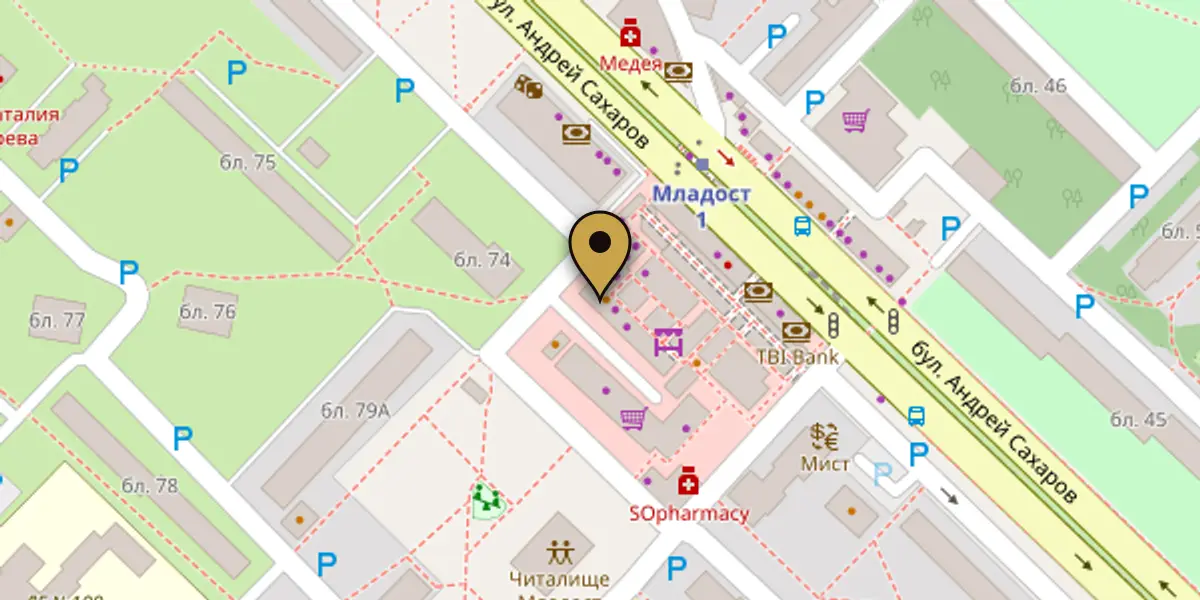
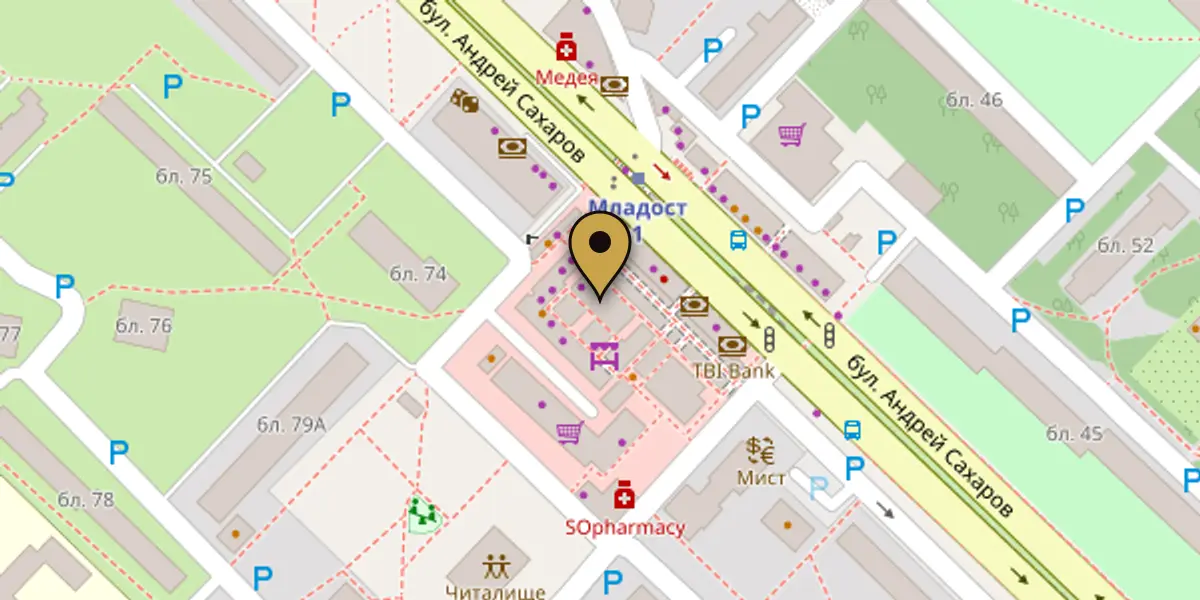
feat(seo): local title and H1, Google Business Profile links and schema
- Home title „Бързи кредити в София, Младост | Royal Finance“, H1 „Бързи кредити
  и бързо финансиране в София“ (client, 2026-10-28)
- company.gbpUrl: every address/maps link opens the Google Business Profile;
  JSON-LD sameAs/hasMap point to it, plus priceRange from the form's amount range
- Office pin = the profile's pin; static map regenerated
- FAQ description no longer mentions the lender

diff --git a/src/lib/seo.ts b/src/lib/seo.ts
@@ -1,6 +1,7 @@
 // JSON-LD (schema.org) built from src/data/company.ts — never hardcode company data here.
 // Missing data (photos, geo, profiles) is simply left out until the client supplies it.
 import { company } from '../data/company';
+import { AMOUNT, formatEur } from './application';
 
 export const SITE = 'https://www.royalfinance.bg'; // primary domain (apex redirects here)
 
@@ -23,6 +24,8 @@ export function financialService() {
     image: `${SITE}/og.png`,
     telephone: company.phoneHref.replace('tel:', ''),
     email: company.email,
+    // The amount range of the form (not a cost figure)
+    priceRange: `${formatEur(AMOUNT.min)} – ${formatEur(AMOUNT.max)}`,
     address: {
       '@type': 'PostalAddress',
       streetAddress: company.office.streetAddress,
@@ -32,8 +35,9 @@ export function financialService() {
     },
     ...(company.office.geo && {
       geo: { '@type': 'GeoCoordinates', latitude: company.office.geo.lat, longitude: company.office.geo.lon },
-      hasMap: `https://www.google.com/maps/search/?api=1&query=${company.office.geo.lat},${company.office.geo.lon}`,
     }),
+    hasMap: company.gbpUrl,
+    sameAs: [company.gbpUrl],
     openingHoursSpecification: company.openingHours.map((h) => ({
       '@type': 'OpeningHoursSpecification',
       dayOfWeek: h.days,

diff --git a/src/data/company.ts b/src/data/company.ts
@@ -26,9 +26,14 @@ export const company = {
      * After changing it run: node scripts/make-office-map.mjs <lat> <lon>
      * null = not known yet → no map and no geo (nothing is shown instead of a wrong pin).
      */
-    // OpenStreetMap: commercial building бул. Андрей Сахаров 11 (2026-10-23) — client to confirm the pin
-    geo: { lat: 42.6524536, lon: 23.3728051 } as { lat: number; lon: number } | null,
+    // The pin of the Google Business Profile (2026-10-28), so the site, JSON-LD and the profile match
+    geo: { lat: 42.6525113, lon: 23.3731487 } as { lat: number; lon: number } | null,
   },
+  /**
+   * Google Business Profile (stable cid link of „Royal Finance Младост“, from the client's share link
+   * 2026-10-28). Every "open in maps" link points here, and it is `sameAs` in the JSON-LD.
+   */
+  gbpUrl: 'https://maps.google.com/?cid=5018476934828207780',
   phone: '+359 888 807 152',
   phoneHref: 'tel:+359888807152',
   workingHours: 'Понеделник – петък: 10:00 – 19:00 ч.; събота: 10:00 – 16:00 ч.; неделя: почивен ден',

diff --git a/tests/e2e/test_seo.py b/tests/e2e/test_seo.py
@@ -50,7 +50,7 @@ for url, path in sorted(pages.items()):
         fs = next((d for d in data if d.get('@type') == 'FinancialService'), {})
         ok(f'{url}: NAP in JSON-LD', fs.get('name') == 'Royal Finance' and fs.get('telephone') == '+359888807152'
            and fs.get('address', {}).get('streetAddress') == 'бул. „Андрей Сахаров“ № 11'
-           and fs.get('address', {}).get('postalCode') == '1784' and fs.get('geo', {}).get('latitude') == 42.6524536, json.dumps(fs.get('address'), ensure_ascii=False))
+           and fs.get('address', {}).get('postalCode') == '1784' and fs.get('geo', {}).get('latitude') == 42.6525113 and fs.get('sameAs') == [fs.get('hasMap')] and fs['hasMap'].startswith('https://maps.google.com/?cid=') and fs.get('priceRange') == '500 € – 5 000 €', json.dumps(fs.get('address'), ensure_ascii=False))
         ok(f'{url}: no rating/review markup', 'aggregateRating' not in html and '"Review"' not in html)
         imgs = re.findall(r'<img\b[^>]*>', html)
         has_alt = lambda i: re.search(r'\salt(=|\s|>)', i)  # bare `alt` == alt="" (decorative)
@@ -69,7 +69,7 @@ faq_ld = [json.loads(b) for b in re.findall(r'<script type="application/ld\+json
 fp = next((d for d in faq_ld if d['@type'] == 'FAQPage'), None)
 ok('/faq: FAQPage with 8–12 questions', fp and 8 <= len(fp['mainEntity']) <= 12, fp and str(len(fp['mainEntity'])))
 home = (STATIC / 'index.html').read_text(encoding='utf-8')
-ok('home: H1 „Бързо финансиране“ and no „Бързи кредити в Младост“ in the title (client decision)', re.search(r'<h1[^>]*>Бързо финансиране</h1>', home) and 'Бързи кредити в Младост' not in re.search(r'<title>([^<]*)', home).group(1))
+ok('home: title and H1 (client decision 2026-10-28)', re.search(r'<h1[^>]*>Бързи кредити и бързо финансиране в София</h1>', home) and re.search(r'<title>([^<]*)', home).group(1) == 'Бързи кредити в София, Младост | Royal Finance')
 ok('home: intro text (client copy)', re.search(r'class="lead"[^>]*>\s*Бърз кредит, кандидатствайте онлайн', home))
 ok('home: office address + hours visible', 'бул. „Андрей Сахаров“ № 11' in home and '10:00' in home)
 

diff --git a/tests/e2e/test_legal.py b/tests/e2e/test_legal.py
@@ -77,8 +77,8 @@ with sync_playwright() as p:
         stmt = 'Royal Finance е търговска марка на „Глобъл Профинанс“ ЕООД, която действа като агент на „Тием Финанси“ ООД, ЕИК 202786529, вписано в регистъра на финансовите институции към БНБ под № BGR00464.'
         ok(f'[{label}] home: agent statement not under the form (client), but in the footer of the same page', stmt not in pg.text_content('#apply-form') and stmt in pg.text_content('footer'))
         ok(f'[{label}] contact block real data', '+359 888 807 152' in ct and 'finance@royalfinance.bg' in ct and 'abv.bg' not in ct and 'Понеделник – петък' in ct)
-        ok(f'[{label}] contact office address', 'бул. „Андрей Сахаров“ № 11' in ct and '1784 София' in ct and 'бл. 79' not in ct and 'Отвори в карти' in ct)
-        ok(f'[{label}] maps links (contact + footer)', pg.locator('a[data-maps-query]').count() == 2 and all('google.com/maps' in h for h in pg.eval_on_selector_all('a[data-maps-query]', 'as => as.map(a => a.href)')))
+        ok(f'[{label}] contact office address', 'бул. „Андрей Сахаров“ № 11' in ct and '1784 София' in ct and 'бл. 79' not in ct and 'Виж в Google Maps' in ct)
+        ok(f'[{label}] maps links (contact + footer) → Google Business Profile', pg.locator('a[data-maps-link]').count() == 2 and all(h.startswith('https://maps.google.com/?cid=') for h in pg.eval_on_selector_all('a[data-maps-link]', 'as => as.map(a => a.href)')))
         ok(f'[{label}] header has phone but no working hours', '+359 888 807 152' in pg.text_content('header') and '10:00' not in pg.text_content('header'))
         pg.goto(BASE + '/'); pg.wait_for_load_state('networkidle')
         menu = pg.eval_on_selector_all('header .nav-list > li:not(.nav-phone-mobile) > a', 'as => as.map(a => a.textContent.trim())')

diff --git a/SEO_TODO.md b/SEO_TODO.md
@@ -29,9 +29,8 @@
 
 - [x] **Vercel → Settings → Domains:** `royalfinance.bg` и `www.royalfinance.bg`; основният е **www**, `royalfinance.bg`
       пренасочва към него (решение на клиента, 24.10.2026). HTTPS и пренасочването от http Vercel прави автоматично.
-- [ ] **Пинът на картата** е от OpenStreetMap (бул. Андрей Сахаров 11 → 42.6524536, 23.3728051) — потвърди, че е точно
-      на входа. За смяна: `geo` в `src/data/company.ts` + `node scripts/make-office-map.mjs <lat> <lon>`.
-- [ ] Когато има **Google Business Profile**: линка към профила (за `sameAs`).
+- [x] **Пинът на картата** е пинът от Google профила (42.6525113, 23.3731487, 28.10.2026) — сайтът, JSON-LD и профилът съвпадат. За смяна: `geo` в `src/data/company.ts` + `node scripts/make-office-map.mjs <lat> <lon>`.
+- [x] **Google Business Profile** „Royal Finance Младост“: `company.gbpUrl` в `src/data/company.ts` (`sameAs`, всички линкове „Виж в Google Maps“).
 - [ ] Когато има **снимки на офиса**: за `/location` и за `image` в JSON-LD (сега е OG картинката).
 - [ ] **Как се изплаща кредитът** (в брой/по сметка) и дали има кредити „до заплата“ — дотогава тези думи не се ползват.
 - [ ] **Документи:** на сайта пише „само валидна лична карта“ — потвърди.
